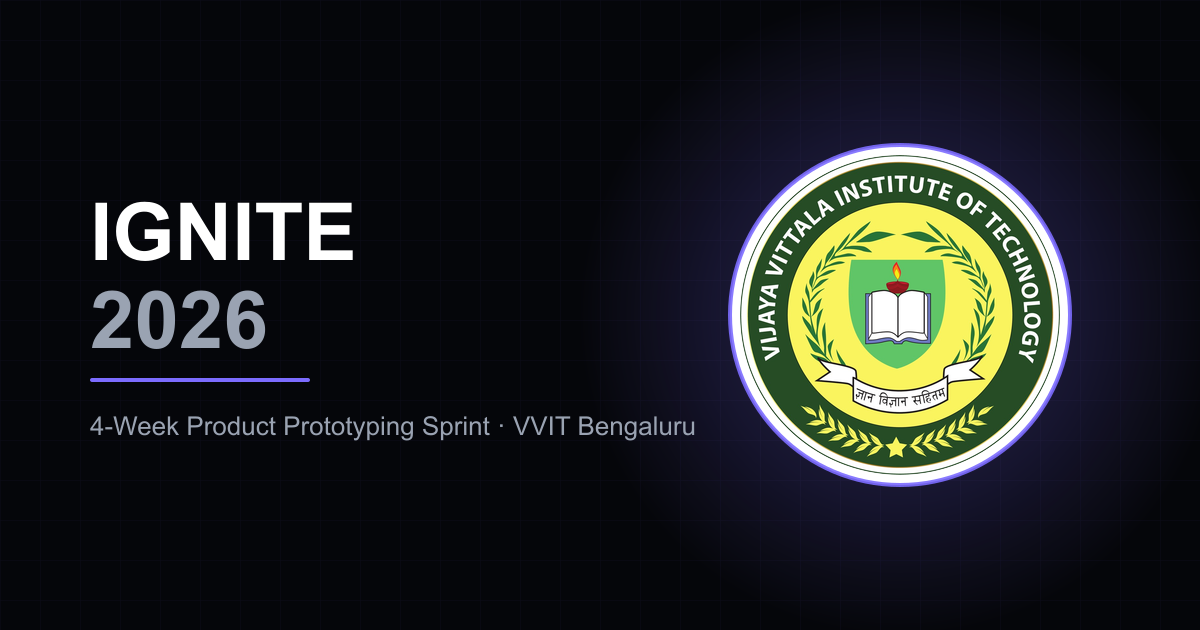
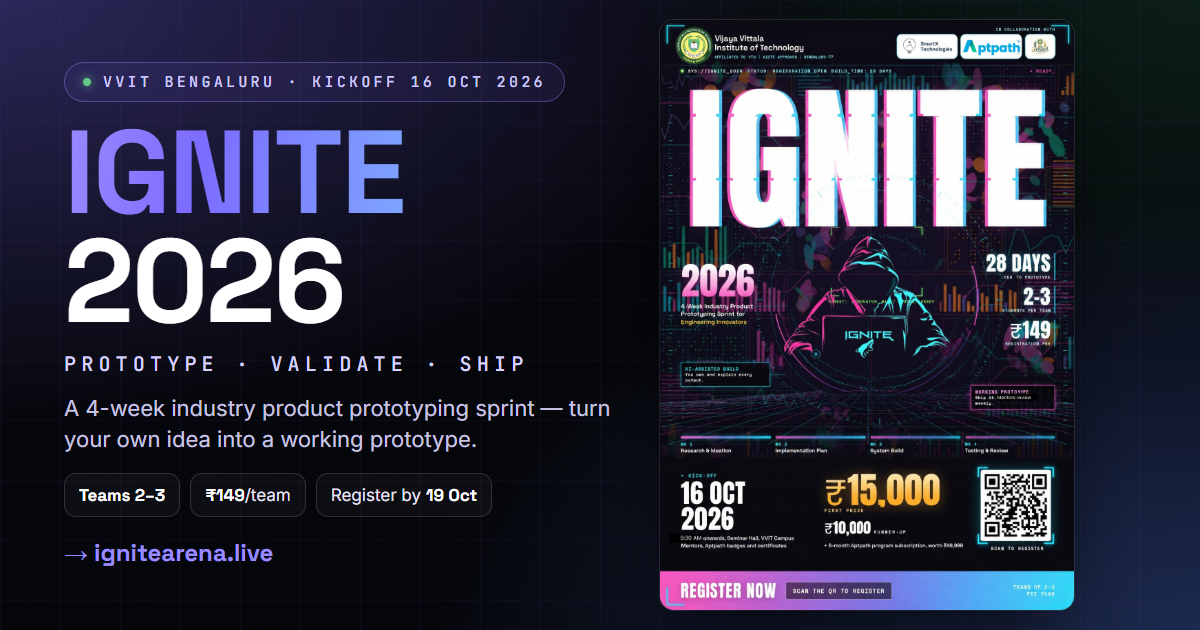
IGNITE 2026: branded OG/link-preview card from final poster

diff --git a/promo/posters.html b/promo/posters.html
@@ -1,0 +1,239 @@
+<!doctype html>
+<html lang="en">
+<head>
+<meta charset="utf-8" />
+<meta name="viewport" content="width=device-width, initial-scale=1" />
+<title>IGNITE 2026 — Promo Graphics (screenshot ready)</title>
+<link rel="preconnect" href="https://fonts.googleapis.com" />
+<link rel="preconnect" href="https://fonts.gstatic.com" crossorigin />
+<link href="https://fonts.googleapis.com/css2?family=Space+Grotesk:wght@400;500;600;700&family=Inter:wght@400;500;600;700;800&family=JetBrains+Mono:wght@500;700&display=swap" rel="stylesheet" />
+<style>
+  :root{
+    --ink:#05060a; --ink850:#0c0f18; --ink700:#171b2b; --ink600:#23273c;
+    --violet:#7c6cff; --violet-bright:#9a8bff; --violet-deep:#5a4bdc; --blue:#5b8cff; --blue-bright:#7ea6ff;
+    --leaf:#2e9e5b; --leaf-light:#62c987; --olive:#c6c95f;
+    --display:"Space Grotesk",sans-serif; --sans:"Inter",sans-serif; --mono:"JetBrains Mono",monospace;
+  }
+  *{box-sizing:border-box;margin:0;padding:0}
+  body{background:#0a0a0d;color:#fff;font-family:var(--sans);padding:40px;display:flex;flex-direction:column;align-items:center;gap:56px}
+  .note{max-width:900px;text-align:center;color:#9aa;font-size:14px;line-height:1.6}
+  .note b{color:#fff}
+  .lab{width:max-content;font-family:var(--mono);font-size:13px;color:var(--violet-bright);letter-spacing:.06em;margin-bottom:10px}
+  .frame{position:relative;overflow:hidden;border-radius:2px;color:#fff;background:
+      radial-gradient(120% 90% at 15% 8%, rgba(124,108,255,.28), transparent 55%),
+      radial-gradient(110% 90% at 88% 92%, rgba(91,140,255,.24), transparent 58%),
+      radial-gradient(90% 80% at 80% 6%, rgba(46,158,91,.14), transparent 60%),
+      linear-gradient(160deg,#080911, #05060a 55%, #070812);
+    display:flex;flex-direction:column;padding:6%}
+  .frame::before{content:"";position:absolute;inset:0;pointer-events:none;background:
+      linear-gradient(to right, rgba(124,108,255,.07) 1px, transparent 1px),
+      linear-gradient(to bottom, rgba(124,108,255,.07) 1px, transparent 1px);
+    background-size:64px 64px;opacity:.7}
+  .frame > *{position:relative;z-index:1}
+  .chip{display:inline-flex;align-items:center;gap:.7em;font-family:var(--mono);font-size:.72em;letter-spacing:.22em;text-transform:uppercase;color:#cfc9ff;border:1px solid rgba(154,139,255,.35);border-radius:999px;padding:.5em 1em;background:rgba(124,108,255,.08)}
+  .dot{width:.5em;height:.5em;border-radius:99px;background:var(--leaf-light);box-shadow:0 0 10px var(--leaf-light)}
+  .grad{background:linear-gradient(100deg,var(--violet-bright),var(--violet) 40%,var(--blue-bright));-webkit-background-clip:text;background-clip:text;color:transparent}
+  .kick{margin-top:auto;display:flex;align-items:center;justify-content:space-between;gap:1em;border-top:1px solid rgba(255,255,255,.12);padding-top:4%;font-size:.8em;color:#b9b3d6}
+  .mono{font-family:var(--mono);letter-spacing:.14em;text-transform:uppercase}
+  .center{flex:1;display:flex;flex-direction:column;justify-content:center;gap:.5em}
+
+  /* ── 1080 x 1080 carousel ── */
+  .sq{width:1080px;height:1080px}
+  .sq .h1{font-family:var(--display);font-weight:700;font-size:190px;line-height:.92;letter-spacing:-.02em}
+  .sq .tag{margin-top:.5em;font-family:var(--mono);font-size:30px;letter-spacing:.28em;color:#d7d2ff}
+  .sq .sub{margin-top:.7em;font-size:34px;color:#c9c4e4;max-width:88%;line-height:1.35}
+  .sq .big{font-family:var(--display);font-weight:700;font-size:104px;line-height:1.02;letter-spacing:-.01em}
+  .sq .lbl{font-family:var(--mono);font-size:24px;letter-spacing:.2em;color:var(--violet-bright);text-transform:uppercase;margin-bottom:.6em}
+  .facts{display:flex;flex-direction:column;gap:.5em;margin-top:.3em}
+  .fact{display:flex;align-items:baseline;gap:.6em;font-size:38px;color:#e7e4f7}
+  .fact b{font-family:var(--display);font-size:52px}
+  .prizes{display:flex;flex-direction:column;gap:.45em}
+  .prow{display:flex;align-items:baseline;gap:.5em;font-size:34px;color:#d9d5f0}
+  .prow .amt{font-family:var(--display);font-weight:700;font-size:72px}
+
+  /* ── 1080 x 1920 story ── */
+  .story{width:1080px;height:1920px;padding:9% 7%}
+  .story .h1{font-family:var(--display);font-weight:700;font-size:210px;line-height:.95}
+  .story .tag{margin-top:.4em;font-family:var(--mono);font-size:34px;letter-spacing:.26em;color:#d7d2ff}
+  .story .sub{margin-top:.8em;font-size:46px;color:#cbc6e6;line-height:1.35}
+  .story .cta{margin-top:1.1em;display:inline-flex;width:max-content;font-family:var(--display);font-weight:700;font-size:44px;padding:.55em 1.2em;border-radius:999px;color:#0b0b16;background:linear-gradient(100deg,var(--violet-bright),var(--blue-bright))}
+  .story .foot{margin-top:auto;font-size:34px;color:#b9b3d6}
+
+  /* ── 1080 x 1350 poster ── */
+  .poster{width:1080px;height:1350px;padding:6.5%}
+  .poster .lock{display:flex;align-items:center;justify-content:space-between}
+  .poster .h1{font-family:var(--display);font-weight:700;font-size:186px;line-height:.95}
+  .poster .tag{margin-top:.35em;font-family:var(--mono);font-size:28px;letter-spacing:.26em;color:#d7d2ff}
+  .poster .desc{margin-top:.5em;font-size:32px;color:#c9c4e4}
+  .poster .grid{display:grid;grid-template-columns:1fr 1fr;gap:14px;margin-top:5%}
+  .poster .card{border:1px solid rgba(255,255,255,.12);border-radius:16px;padding:20px 22px;background:rgba(255,255,255,.03)}
+  .poster .card .k{font-family:var(--mono);font-size:20px;letter-spacing:.14em;text-transform:uppercase;color:var(--violet-bright)}
+  .poster .card .v{font-family:var(--display);font-weight:600;font-size:40px;margin-top:.15em}
+  .poster .prize{margin-top:5%;border:1px solid rgba(154,139,255,.35);border-radius:16px;padding:22px 26px;background:linear-gradient(100deg,rgba(124,108,255,.16),rgba(91,140,255,.10));font-size:34px}
+  .poster .prize b{font-family:var(--display);font-size:46px}
+  .poster .bottom{margin-top:auto;display:flex;flex-direction:column;gap:14px}
+  .poster .reg{display:flex;align-items:center;justify-content:space-between;font-family:var(--display);font-weight:700;font-size:44px;padding:22px 28px;border-radius:16px;color:#0b0b16;background:linear-gradient(100deg,var(--violet-bright),var(--blue-bright))}
+  .poster .partners{font-size:26px;color:#b9b3d6}
+  .poster .contacts{font-size:24px;color:#8f8aa8;font-family:var(--mono)}
+
+  /* ── 1200 x 627 social card ── */
+  .card{width:1200px;height:627px;flex-direction:row;align-items:center;gap:5%}
+  .card .left{flex:1.1;display:flex;flex-direction:column;gap:.4em}
+  .card .right{flex:.9;display:flex;flex-direction:column;gap:.5em;border-left:1px solid rgba(255,255,255,.12);padding-left:5%}
+  .card .h1{font-family:var(--display);font-weight:700;font-size:110px;line-height:.95}
+  .card .tag{font-family:var(--mono);font-size:22px;letter-spacing:.22em;color:#d7d2ff}
+  .card .pitch{font-size:26px;color:#c9c4e4;line-height:1.4}
+  .card .pl{font-family:var(--display);font-weight:700;font-size:56px}
+  .card .url{margin-top:.2em;font-family:var(--display);font-weight:700;font-size:32px;color:var(--violet-bright)}
+  .card .foot{position:absolute;left:5%;right:5%;bottom:5%;font-size:22px;color:#8f8aa8}
+</style>
+</head>
+<body>
+
+<p class="note"><b>IGNITE 2026 — promo graphics.</b> Screenshot each frame at 100% zoom (or DevTools → right-click the frame → <b>Capture node screenshot</b>) to export exact-pixel PNGs. Sizes: carousel <b>1080×1080</b> · story <b>1080×1920</b> · poster <b>1080×1350</b> · link card <b>1200×627</b>.</p>
+
+<!-- ─────────── CAROUSEL SLIDE 1 ─────────── -->
+<div>
+  <div class="lab">IG CAROUSEL · 1080×1080 · slide 1</div>
+  <div class="frame sq">
+    <div style="display:flex;justify-content:space-between;align-items:center">
+      <span class="chip"><span class="dot"></span>VVIT · Samagra</span>
+      <span class="chip">16 OCT 2026</span>
+    </div>
+    <div class="center">
+      <div class="h1"><span class="grad">IGNITE</span><br>2026</div>
+      <div class="tag">PROTOTYPE · VALIDATE · SHIP</div>
+      <div class="sub">A 4-week industry product prototyping sprint — turn your own idea into a working prototype.</div>
+    </div>
+    <div class="kick"><span>VVIT · Bengaluru</span><span>Kickoff 16 Oct · Register by 19 Oct</span></div>
+  </div>
+</div>
+
+<!-- ─────────── CAROUSEL SLIDE 2 ─────────── -->
+<div>
+  <div class="lab">IG CAROUSEL · 1080×1080 · slide 2</div>
+  <div class="frame sq">
+    <span class="chip"><span class="dot"></span>Open innovation</span>
+    <div class="center">
+      <div class="lbl">How it works</div>
+      <div class="big">YOUR IDEA.<br>4 WEEKS.<br><span class="grad">A WORKING PROTOTYPE.</span></div>
+      <div class="sub">Teams of 2–3 · any domain · no fixed problem statements. You choose what to build.</div>
+    </div>
+    <div class="kick"><span>IGNITE 2026</span><span>ignitearena.live</span></div>
+  </div>
+</div>
+
+<!-- ─────────── CAROUSEL SLIDE 3 ─────────── -->
+<div>
+  <div class="lab">IG CAROUSEL · 1080×1080 · slide 3</div>
+  <div class="frame sq">
+    <span class="chip">Powered by SmartX Technologies &amp; AptPath</span>
+    <div class="center">
+      <div class="lbl">Guidance that ships</div>
+      <div class="big">MENTORED.<br><span class="grad">MILESTONE-REVIEWED.</span></div>
+      <div class="facts">
+        <div class="fact"><b>✓</b> Industry mentors from SmartX &amp; AptPath</div>
+        <div class="fact"><b>✓</b> PRISM product methodology</div>
+        <div class="fact"><b>✓</b> AI-assisted building · weekly reviews</div>
+      </div>
+    </div>
+    <div class="kick"><span>Supported by Samagra</span><span>VVIT · Bengaluru</span></div>
+  </div>
+</div>
+
+<!-- ─────────── CAROUSEL SLIDE 4 ─────────── -->
+<div>
+  <div class="lab">IG CAROUSEL · 1080×1080 · slide 4</div>
+  <div class="frame sq">
+    <span class="chip"><span class="dot"></span>Prizes &amp; recognition</span>
+    <div class="center">
+      <div class="lbl">What you can win</div>
+      <div class="prizes">
+        <div class="prow"><span class="amt grad">₹15,000</span> First prize</div>
+        <div class="prow"><span class="amt grad">₹10,000</span> Runner-up</div>
+        <div class="prow"><span class="amt grad">₹49,999</span> 6-month program</div>
+      </div>
+      <div class="sub" style="margin-top:.6em">Plus verified certificates and industry-recognised digital badges.</div>
+    </div>
+    <div class="kick"><span>IGNITE 2026</span><span>Fee ₹149 / team</span></div>
+  </div>
+</div>
+
+<!-- ─────────── CAROUSEL SLIDE 5 ─────────── -->
+<div>
+  <div class="lab">IG CAROUSEL · 1080×1080 · slide 5</div>
+  <div class="frame sq" style="text-align:center;align-items:center">
+    <span class="chip"><span class="dot"></span>Registrations open</span>
+    <div class="center" style="align-items:center;text-align:center">
+      <div class="lbl" style="margin:0 auto .4em">Register by</div>
+      <div class="big"><span class="grad">19 OCT 2026</span></div>
+      <div class="sub" style="margin-inline:auto">ignitearena.live<br>Teams of 2–3 · ₹149 per team</div>
+    </div>
+    <div class="kick" style="width:100%"><span>@samagra_vvit</span><span>Link in bio</span></div>
+  </div>
+</div>
+
+<!-- ─────────── STORY / REEL COVER ─────────── -->
+<div>
+  <div class="lab">IG STORY / REEL COVER · 1080×1920</div>
+  <div class="frame story">
+    <span class="chip"><span class="dot"></span>VVIT · Samagra</span>
+    <div class="center">
+      <div class="h1"><span class="grad">IGNITE</span><br>2026</div>
+      <div class="tag">PROTOTYPE · VALIDATE · SHIP</div>
+      <div class="sub">2–3 friends. Your own idea. ₹149 per team.<br>4 weeks to a working prototype.</div>
+      <div class="cta">REGISTER BY 19 OCT →</div>
+    </div>
+    <div class="foot">ignitearena.live · @samagra_vvit</div>
+  </div>
+</div>
+
+<!-- ─────────── POSTER (portrait) ─────────── -->
+<div>
+  <div class="lab">POSTER · 1080×1350</div>
+  <div class="frame poster">
+    <div class="lock">
+      <span class="chip"><span class="dot"></span>Vijaya Vittala Institute of Technology</span>
+      <span class="chip">16 OCT 2026</span>
+    </div>
+    <div style="margin-top:5%">
+      <div class="h1"><span class="grad">IGNITE</span> 2026</div>
+      <div class="tag">PROTOTYPE · VALIDATE · SHIP</div>
+      <div class="desc">4-Week Industry Product Prototyping Sprint · Bengaluru</div>
+    </div>
+    <div class="grid">
+      <div class="card"><div class="k">Team size</div><div class="v">2 – 3 members</div></div>
+      <div class="card"><div class="k">Idea</div><div class="v">Bring your own</div></div>
+      <div class="card"><div class="k">Fee</div><div class="v">₹149 / team</div></div>
+      <div class="card"><div class="k">Duration</div><div class="v">4 weeks</div></div>
+    </div>
+    <div class="prize">🏆 <b>₹15,000</b> First &nbsp;·&nbsp; <b>₹10,000</b> Runner-up &nbsp;·&nbsp; <b>₹49,999</b> program</div>
+    <div class="bottom">
+      <div class="reg"><span>REGISTER BY 19 OCT</span><span>→ ignitearena.live</span></div>
+      <div class="partners">With <b>SmartX Technologies</b> &amp; <b>AptPath</b> · Supported by <b>Samagra</b></div>
+      <div class="contacts">samagra2k26@gmail.com · +91 74112 64727 · @samagra_vvit</div>
+    </div>
+  </div>
+</div>
+
+<!-- ─────────── SOCIAL LINK CARD ─────────── -->
+<div>
+  <div class="lab">LINKEDIN / X CARD · 1200×627</div>
+  <div class="frame card">
+    <div class="left">
+      <div class="h1"><span class="grad">IGNITE</span> 2026</div>
+      <div class="tag">PROTOTYPE · VALIDATE · SHIP</div>
+      <div class="pitch">A 4-week product prototyping sprint at VVIT, Bengaluru. Teams of 2–3 bring their own idea and build a working prototype.</div>
+    </div>
+    <div class="right">
+      <div class="pl grad">₹15,000</div>
+      <div class="pl grad">₹10,000</div>
+      <div class="pl grad">+ ₹49,999</div>
+      <div class="url">→ ignitearena.live</div>
+    </div>
+    <div class="foot">VVIT Bengaluru · SmartX Technologies · AptPath · Samagra</div>
+  </div>
+</div>
+
+</body>
+</html>

diff --git a/promo/og-card.html b/promo/og-card.html
@@ -1,0 +1,65 @@
+<!doctype html>
+<html lang="en">
+<head>
+<meta charset="utf-8" />
+<title>IGNITE 2026 — OG card 1200×630</title>
+<link rel="preconnect" href="https://fonts.googleapis.com" />
+<link rel="preconnect" href="https://fonts.gstatic.com" crossorigin />
+<link href="https://fonts.googleapis.com/css2?family=Space+Grotesk:wght@400;500;600;700&family=Inter:wght@400;500;600;700;800&family=JetBrains+Mono:wght@500;700&display=swap" rel="stylesheet" />
+<style>
+  @page { margin: 0 }
+  *{box-sizing:border-box;margin:0;padding:0}
+  html,body{width:1200px;height:630px;overflow:hidden;background:#05060a}
+  .og{
+    position:relative;width:1200px;height:630px;overflow:hidden;color:#fff;
+    font-family:"Inter",system-ui,sans-serif;
+    background:
+      radial-gradient(120% 120% at 0% 0%, rgba(124,108,255,.30), transparent 55%),
+      radial-gradient(110% 120% at 100% 100%, rgba(91,140,255,.26), transparent 58%),
+      radial-gradient(80% 90% at 100% 0%, rgba(46,158,91,.16), transparent 60%),
+      linear-gradient(150deg,#080911,#05060a 55%,#070812);
+    display:flex;align-items:center;
+  }
+  .og::before{
+    content:"";position:absolute;inset:0;
+    background:
+      linear-gradient(to right, rgba(124,108,255,.07) 1px, transparent 1px),
+      linear-gradient(to bottom, rgba(124,108,255,.07) 1px, transparent 1px);
+    background-size:60px 60px;opacity:.7;
+  }
+  .left{position:relative;z-index:1;flex:1 1 auto;padding:0 8px 0 64px;display:flex;flex-direction:column;gap:16px;max-width:660px}
+  .kick{display:inline-flex;align-items:center;gap:12px;font-family:"JetBrains Mono",monospace;font-size:15px;letter-spacing:.22em;text-transform:uppercase;color:#cfc9ff;border:1px solid rgba(154,139,255,.35);border-radius:999px;padding:9px 18px;background:rgba(124,108,255,.08);width:max-content}
+  .dot{width:8px;height:8px;border-radius:99px;background:#62c987;box-shadow:0 0 10px #62c987}
+  .h1{font-family:"Space Grotesk",sans-serif;font-weight:700;font-size:118px;line-height:.92;letter-spacing:-.02em}
+  .grad{background:linear-gradient(100deg,#9a8bff,#7c6cff 40%,#7ea6ff);-webkit-background-clip:text;background-clip:text;color:transparent}
+  .tag{font-family:"JetBrains Mono",monospace;font-size:20px;letter-spacing:.26em;color:#d7d2ff;text-transform:uppercase}
+  .desc{font-size:22px;line-height:1.4;color:#c9c4e4;max-width:560px}
+  .facts{display:flex;gap:10px;flex-wrap:wrap;margin-top:2px}
+  .fact{border:1px solid rgba(255,255,255,.14);border-radius:12px;padding:10px 14px;background:rgba(255,255,255,.03);font-size:17px;color:#e7e4f7}
+  .fact b{font-family:"Space Grotesk",sans-serif;color:#fff}
+  .url{margin-top:4px;font-family:"Space Grotesk",sans-serif;font-weight:700;font-size:24px;color:#9a8bff}
+  .right{position:relative;z-index:1;width:470px;flex:0 0 auto;display:flex;align-items:center;justify-content:center;padding-right:56px}
+  .poster{height:590px;border-radius:14px;overflow:hidden;box-shadow:0 30px 70px -20px rgba(0,0,0,.75),0 0 0 1px rgba(255,255,255,.12)}
+  .poster img{display:block;height:590px;width:auto}
+</style>
+</head>
+<body>
+  <div class="og">
+    <div class="left">
+      <span class="kick"><span class="dot"></span>VVIT Bengaluru · Kickoff 16 Oct 2026</span>
+      <div class="h1"><span class="grad">IGNITE</span> 2026</div>
+      <div class="tag">Prototype · Validate · Ship</div>
+      <div class="desc">A 4-week industry product prototyping sprint — turn your own idea into a working prototype.</div>
+      <div class="facts">
+        <span class="fact"><b>Teams 2–3</b></span>
+        <span class="fact"><b>₹149</b>/team</span>
+        <span class="fact">Register by <b>19 Oct</b></span>
+      </div>
+      <div class="url">→ ignitearena.live</div>
+    </div>
+    <div class="right">
+      <div class="poster"><img src="ignite-poster.jpg" alt="IGNITE 2026 poster" /></div>
+    </div>
+  </div>
+</body>
+</html>

diff --git a/index.html b/index.html
@@ -34,7 +34,9 @@
       property="og:description"
       content="IGNITE 2026 is a 4-week industry product prototyping sprint at Vijaya Vittala Institute of Technology, Bengaluru, in collaboration with SmartX Technologies and AptPath. Turn your own ideas into working prototypes."
     />
-    <meta property="og:image" content="https://www.ignitearena.live/og-image.png?v=2" />
+    <meta property="og:image" content="https://www.ignitearena.live/og-image.png?v=3" />
+    <meta property="og:image:width" content="1200" />
+    <meta property="og:image:height" content="630" />
     <meta property="og:url" content="https://www.ignitearena.live/" />
     <meta property="og:site_name" content="IGNITE" />
     <meta property="og:locale" content="en_IN" />
@@ -46,7 +48,7 @@
       name="twitter:description"
       content="IGNITE 2026 is a 4-week industry product prototyping sprint at Vijaya Vittala Institute of Technology, Bengaluru, in collaboration with SmartX Technologies and AptPath. Turn your own ideas into working prototypes."
     />
-    <meta name="twitter:image" content="https://www.ignitearena.live/og-image.png?v=2" />
+    <meta name="twitter:image" content="https://www.ignitearena.live/og-image.png?v=3" />
 
     <!-- Fonts -->
     <link rel="preconnect" href="https://fonts.googleapis.com" />
@@ -77,7 +79,7 @@
             "addressCountry": "IN"
           }
         },
-        "image": "https://www.ignitearena.live/og-image.png?v=2",
+        "image": "https://www.ignitearena.live/og-image.png?v=3",
         "description": "IGNITE 2026 is a 4-week industry product prototyping sprint at Vijaya Vittala Institute of Technology, Bengaluru, in collaboration with SmartX Technologies and AptPath. Turn your own ideas into working prototypes.",
         "organizer": {
           "@type": "Organization",

diff --git a/promo/POSTER-SPECS.md b/promo/POSTER-SPECS.md
@@ -1,0 +1,43 @@
+# IGNITE 2026 — POSTER / GRAPHIC COPY SPECS
+
+Brand tokens: ink `#05060a` · violet `#7c6cff` · violet-bright `#9a8bff` · blue `#5b8cff`.
+Display font **Space Grotesk** · body **Inter**. Keep text inside a **6% safe margin** on every edge.
+Rendered, ready-to-screenshot version: **`promo/posters.html`** (open file → screenshot each frame at 100%).
+
+---
+
+## A. Instagram carousel — 1080 × 1080 px (5 slides)
+
+| Slide | Headline (big) | Sub / body | Footer strip |
+|---|---|---|---|
+| **1** | `IGNITE 2026` (gradient) | Tagline: `PROTOTYPE · VALIDATE · SHIP` · "4-Week Industry Product Prototyping Sprint" | `VVIT Bengaluru · Kickoff 16 Oct 2026` |
+| **2** | `YOUR IDEA.` `4 WEEKS.` `A WORKING PROTOTYPE.` | "Teams of 2–3 · Any domain · No fixed problem statements" | "Bring your own idea" |
+| **3** | `MENTORED.` `MILESTONE-REVIEWED.` | "Industry mentors · PRISM methodology · AI-assisted build" | `With SmartX Technologies & AptPath` |
+| **4** | `🏆 PRIZES` | `₹15,000` First · `₹10,000` Runner-up · `₹49,999` 6-month program | "Plus verified certificates & badges" |
+| **5** | `REGISTER BY 19 OCT 2026` | `ignitearena.live` · "₹149 per team" | `@samagra_vvit` · "Link in bio" |
+
+## B. Instagram Story / Reel cover — 1080 × 1920 px
+
+- Vertical stack (top→bottom): logo chip → `IGNITE 2026` → tagline → key line → CTA button `REGISTER BY 19 OCT` → footer.
+- Leave the **bottom 250px clear** (IG link/UI zone). Keep the **top 250px** clear for the same reason.
+
+## C. Poster (portrait) — 1080 × 1350 px
+
+- Top: VVIT + Samagra lockup, kickoff date.
+- Centre: `IGNITE 2026` + tagline + "4-Week Industry Product Prototyping Sprint".
+- Mid: 4 quick facts (Teams 2–3 · Own idea · ₹149/team · 4 weeks).
+- Lower: Prize line `₹15,000 + ₹10,000 + ₹49,999 program`.
+- Bottom: `REGISTER: www.ignitearena.live · by 19 Oct 2026` + partners row + contacts.
+
+## D. LinkedIn / X link card — 1200 × 627 px
+
+- Left: `IGNITE 2026` + tagline + one-line pitch.
+- Right: big prize line + CTA `ignitearena.live`.
+- Footer strip: `VVIT · SmartX Technologies · AptPath · Samagra`.
+
+---
+
+### Export tips
+- Open `promo/posters.html` in Chrome → DevTools → **Inspect the frame** → right-click the element → **Capture node screenshot** (gets exact px).
+- Or screenshot at 100% zoom and crop to the frame border.
+- Export PNG, quality high. Do **not** rescale before upload (IG re-compresses).
